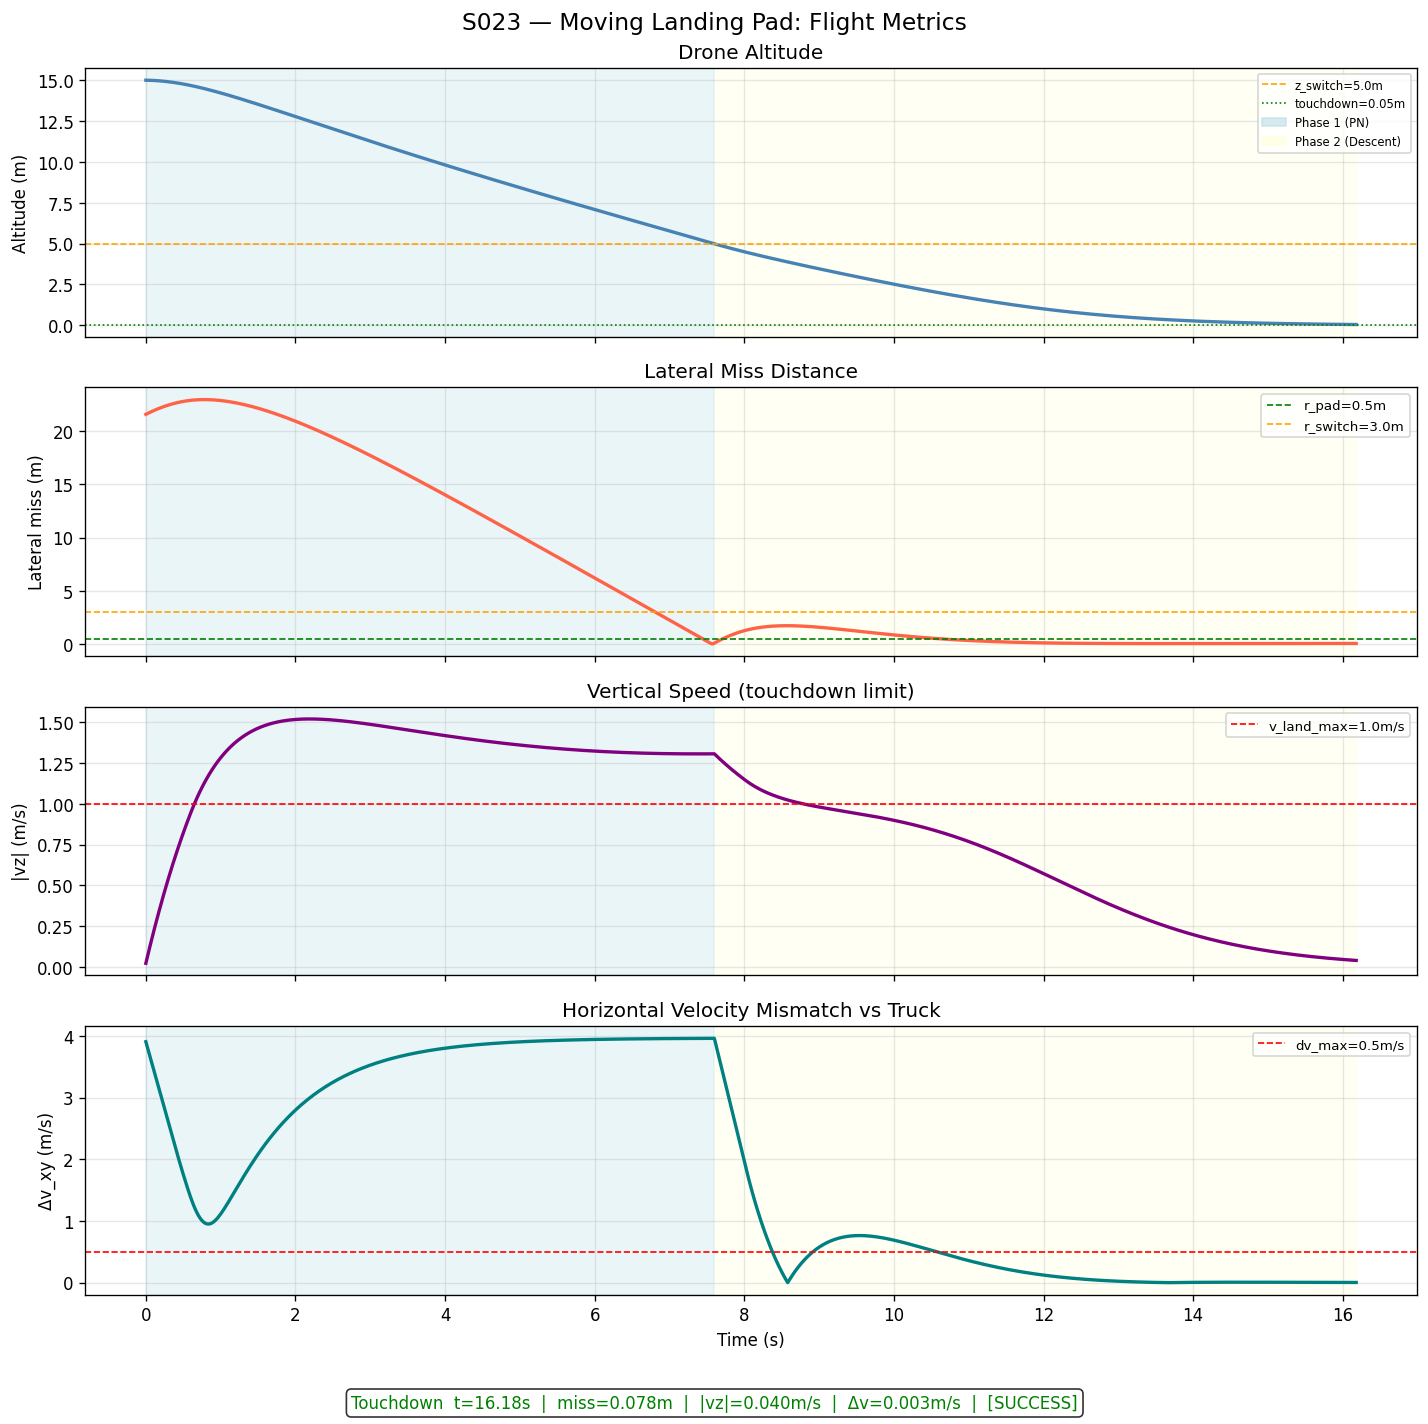
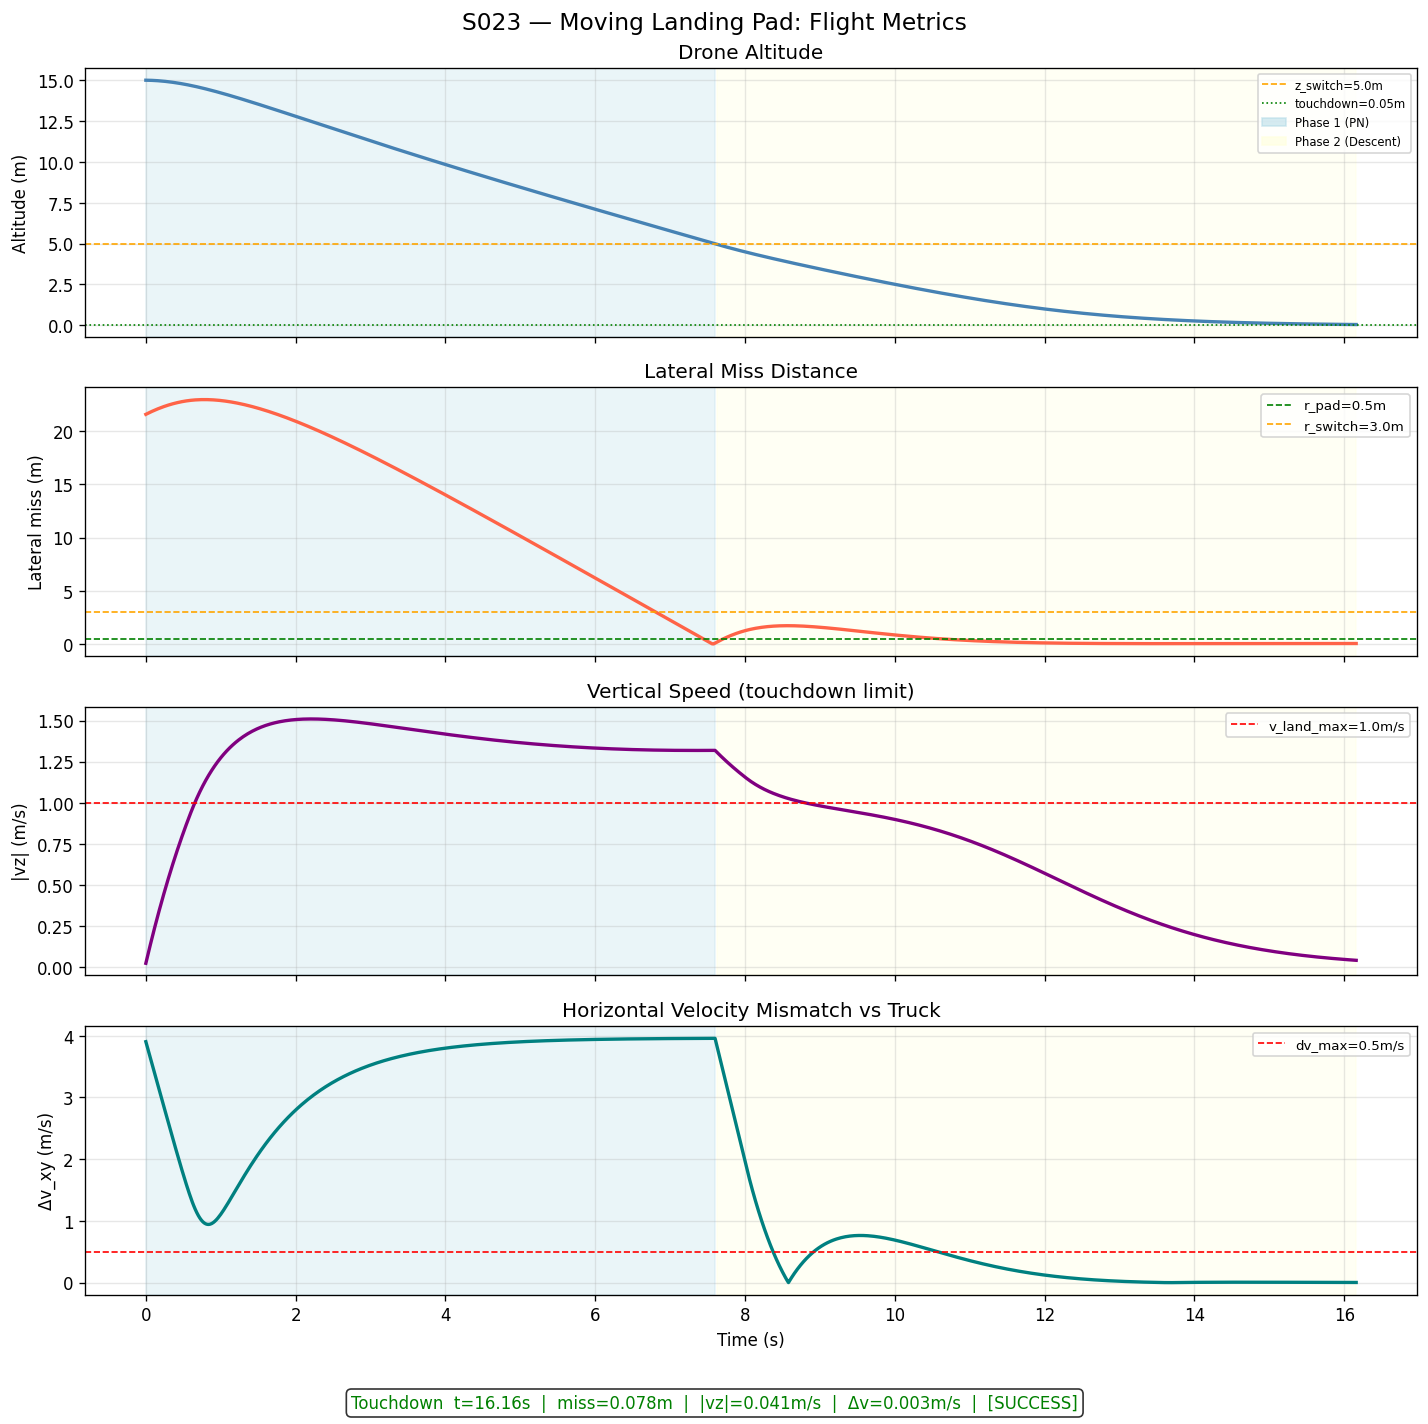
Fix S023 Moving Landing Pad: address review follow-ups
- C9/C10: intercept predictor now iterates to |d(dt_fly)| < 1e-6 s (21 iterations at t=0, aim x = 21.91 m vs 21.64 m with the card's 5 iterations); iterations printed, converged sanity check in README, listed as a card deviation
- C9: Phase-2 duration explanation corrected: script now prints the vertical channel alone (ideal tanh 10.97 s; rate loop from rest 9.24 s, on-profile entry 8.76 s, actual entry 8.58 s) - the saving comes from the 2nd-order rate-loop lag, entry speed explains only 0.18 s
- README numbers refreshed from this run (touchdown 16.16 s, miss 0.0777 m, |vz| 0.0408 m/s, dv 0.0032 m/s, SUCCESS)

diff --git a/src/02_logistics_delivery/s023_moving_landing_pad.py b/src/02_logistics_delivery/s023_moving_landing_pad.py
@@ -59,6 +59,11 @@ KP      = 1.2
 KV      = 1.8
 KZ_RATE = 2.0               # descent rate controller gain
 
+# Intercept predictor: iterate the fixed point to a tolerance (card: "3-5 iterations",
+# which is not enough here - see README "Deviations")
+PRED_TOL      = 1e-6        # s   — stop when |change of dt_fly| < PRED_TOL
+PRED_MAX_ITER = 100         # safety cap
+
 # Phase-1 along-LOS speed hold (not in the card; see README "Deviations")
 K_AX    = 1.0               # 1/s  — gain on (v_max - v_along_LOS)
 
@@ -68,24 +73,57 @@ X_TRUCK0 = 0.0                          # truck start x (m), road along x at y=z
 
 # ── Guidance functions ────────────────────────────────────────────────────────
 
-def predict_intercept(p_drone, p_truck, v_truck_vec, v_drone_max, n_iter=5):
+def predict_intercept(p_drone, p_truck, v_truck_vec, v_drone_max,
+                      tol=PRED_TOL, max_iter=PRED_MAX_ITER):
     """Iterative fixed-point intercept prediction.
 
     The aim point is the truck's future (x, y) at hand-over altitude Z_SWITCH:
         p* = p_T + v_T * dt_fly (horizontal),  z* = Z_SWITCH
-        dt_fly = ||p* - p_D|| / v_max      (iterated n_iter times)
+        dt_fly = ||p* - p_D|| / v_max
+    iterated until |dt_fly(k+1) - dt_fly(k)| < tol (contraction factor
+    <= v_T / v_max = 0.5, so convergence is linear).
+
+    Returns (aim_point, dt_fly, iterations_used).
     """
     p_truck_2d = p_truck[:2]
     v_truck_2d = v_truck_vec[:2]
     dz = p_drone[2] - Z_SWITCH
 
     dt_fly = np.linalg.norm(p_truck_2d - p_drone[:2]) / v_drone_max
-    for _ in range(n_iter):
+    n_used = 0
+    for n_used in range(1, max_iter + 1):
         p_int_2d = p_truck_2d + v_truck_2d * dt_fly
         dist_3d  = np.sqrt(np.linalg.norm(p_int_2d - p_drone[:2])**2 + dz**2)
-        dt_fly   = dist_3d / v_drone_max
+        dt_new   = dist_3d / v_drone_max
+        converged = abs(dt_new - dt_fly) < tol
+        dt_fly = dt_new
+        if converged:
+            break
 
-    return np.array([p_int_2d[0], p_int_2d[1], Z_SWITCH]), dt_fly
+    p_int_2d = p_truck_2d + v_truck_2d * dt_fly
+    return np.array([p_int_2d[0], p_int_2d[1], Z_SWITCH]), dt_fly, n_used
+
+
+def vertical_loop_time(z0, vz0, dt=DT):
+    """Phase-2 vertical channel alone: a_z = K*(zdot_cmd(z) - vz), |a_z| <= a_max.
+
+    Returns the time to reach Z_TOUCHDOWN from altitude z0 with initial vertical
+    velocity vz0 (negative = descending), using the same Euler step as the sim.
+    """
+    z, vz, t = z0, vz0, 0.0
+    while z > Z_TOUCHDOWN and t < SIM_TIME:
+        z_dot_cmd = -V_LAND_MAX * np.tanh(z / Z_FLARE)
+        a_z = np.clip(KZ_RATE * (z_dot_cmd - vz), -DRONE_AMAX, DRONE_AMAX)
+        vz += a_z * dt
+        z = max(z + vz * dt, 0.0)
+        t += dt
+    return t
+
+
+def ideal_tanh_time(z0):
+    """Ideal first-order profile zdot = -v_land*tanh(z/z_flare) from z0 to Z_TOUCHDOWN."""
+    return (Z_FLARE / V_LAND_MAX) * np.log(np.sinh(z0 / Z_FLARE) /
+                                           np.sinh(Z_TOUCHDOWN / Z_FLARE))
 
 
 def png_acceleration(p_drone, v_drone, p_target, los_prev, r_prev, N, a_max, dt):
@@ -157,6 +195,7 @@ def run_simulation():
         "dv_horiz":   [],
         "aim":        [],
         "a_pn":       [],
+        "pred_iter":  [],
     }
     landed = False
     touchdown_info = None
@@ -173,7 +212,9 @@ def run_simulation():
 
         # Control
         if phase == 1:
-            p_intercept, _ = predict_intercept(p_drone, p_truck, v_truck, DRONE_VMAX)
+            p_intercept, _, n_it = predict_intercept(p_drone, p_truck, v_truck,
+                                                     DRONE_VMAX)
+            history["pred_iter"].append(n_it)
             a_cmd, los_prev, r_prev, a_pn_mag = png_acceleration(
                 p_drone, v_drone, p_intercept, los_prev, r_prev,
                 N_PNG, DRONE_AMAX, DT)
@@ -484,7 +525,14 @@ def main():
     i2   = int(np.argmax(ph == 2)) if np.any(ph == 2) else None
     print(f"\nStart: drone {P_DRONE0.tolist()} m, truck x0={X_TRUCK0} m, "
           f"v_T={TRUCK_SPEED} m/s")
-    print(f"Initial predicted aim point : ({aim[0,0]:.2f}, {aim[0,1]:.2f}, {aim[0,2]:.2f}) m")
+    print(f"Initial predicted aim point : ({aim[0,0]:.2f}, {aim[0,1]:.2f}, {aim[0,2]:.2f}) m"
+          f"  ({history['pred_iter'][0]} iterations to |Δdt_fly| < {PRED_TOL:g} s)")
+    p5, _, _ = predict_intercept(P_DRONE0, np.array([X_TRUCK0, 0.0, 0.0]),
+                                 np.array([TRUCK_SPEED, 0.0, 0.0]), DRONE_VMAX,
+                                 tol=0.0, max_iter=5)
+    print(f"  (card rule, 5 iterations only, would give x = {p5[0]:.2f} m)")
+    print(f"Predictor iterations over Phase 1: max {max(history['pred_iter'])}, "
+          f"mean {np.mean(history['pred_iter']):.1f}")
     if i2 is not None:
         p_sw  = history["drone"][i2]
         print(f"Phase 1 -> 2 switch at t={t[i2]:.2f}s, drone at "
@@ -501,6 +549,17 @@ def main():
         print(f"  Phase 2: max lateral miss {lat2.max():.3f} m; Δv first <= {DV_MAX} m/s "
               f"after {t[i2 + j0] - t[i2]:.2f} s; max Δv after that {dv2[j0:].max():.3f} m/s")
         print(f"  Phase 2 duration          : {t[-1] - t[i2]:.2f} s")
+        z_sw, vz_sw = history["drone"][i2 - 1][2], -history["vz"][i2 - 1]
+        print(f"  Vertical channel alone from z={z_sw:.2f} m "
+              f"(2nd-order rate loop, K={KZ_RATE}):")
+        print(f"    entry vz={vz_sw:+.3f} m/s (actual)        : "
+              f"{vertical_loop_time(z_sw, vz_sw):.2f} s")
+        vz_ideal = -V_LAND_MAX * np.tanh(z_sw / Z_FLARE)
+        print(f"    entry vz={vz_ideal:+.3f} m/s (on tanh profile): "
+              f"{vertical_loop_time(z_sw, vz_ideal):.2f} s")
+        print(f"    entry vz=+0.000 m/s (from rest)      : "
+              f"{vertical_loop_time(z_sw, 0.0):.2f} s")
+        print(f"    ideal 1st-order tanh profile         : {ideal_tanh_time(z_sw):.2f} s")
     print(f"Number of phase changes     : {n_sw}")
     p1 = ph == 1
     print(f"PN steering |a_PN| in Phase 1: max {apn[p1].max():.3f} m/s², "

diff --git a/outputs/02_logistics_delivery/s023_moving_landing_pad/README.md b/outputs/02_logistics_delivery/s023_moving_landing_pad/README.md
@@ -16,7 +16,7 @@
 
 **Kinematics** (double integrator, gravity cancelled by thrust): $\dot{\mathbf{p}} = \mathbf{v}$, $\dot{\mathbf{v}} = \mathbf{a}_{cmd}$, $\|\mathbf{a}_{cmd}\| \le a_{max}$, $\|\mathbf{v}\| \le v_{max}$.
 
-**Intercept point prediction** (fixed-point iteration, 5 iterations each step):
+**Intercept point prediction** (fixed-point iteration each step, run until $|\Delta t_{fly}^{(k+1)} - \Delta t_{fly}^{(k)}| < 10^{-6}$ s, max 100 iterations):
 
 $$\mathbf{p}^*_{xy} = \mathbf{p}_{T,xy} + \mathbf{v}_{T,xy}\,\Delta t_{fly}, \qquad z^* = z_{switch}, \qquad \Delta t_{fly} = \frac{\|\mathbf{p}^* - \mathbf{p}_D\|}{v_{max}}$$
 
@@ -67,6 +67,7 @@ $$\|\mathbf{p}_{xy,D} - \mathbf{p}_{xy,T}\| \leq r_{pad}, \quad |\dot{z}| \leq v
 |------|------|------|--------|
 | Phase-1 acceleration | pure PN, $\mathbf{a} = N V_c \dot{\hat{\boldsymbol\lambda}}$ | PN **plus** an along-LOS speed-hold term $K_{ax}(v_{max} - \mathbf{v}\cdot\hat{\boldsymbol\lambda})$ using the acceleration budget PN leaves | PN only commands acceleration normal to the LOS; the drone starts at rest, so pure PN has no closing speed and never moves toward the target. The speed hold also makes the drone fly at $v_{max}$, which is what the intercept predictor assumes. |
 | Aim point altitude | predictor returns the truck's future position on the ground | aim point is placed at $z_{switch} = 5$ m above the predicted truck position | Phase 1 is meant to hand over at $z_{switch}$; aiming at the ground would dive at 8 m/s and could hit the ground before the Phase-2 lateral condition is met. |
+| Intercept predictor iterations | "converged after 3–5 fixed-point iterations" | iterate until the change in $\Delta t_{fly}$ is < 10⁻⁶ s (21 iterations at t = 0) | the map contracts by only ≈ 0.5 per iteration here, so 5 iterations leave a 0.27 m error in the initial aim point |
 | LOS rate | card maths: finite difference; card code: $\mathbf{v}_{\perp,rel}/r$ with $\mathbf{v}_T$ as target velocity | finite difference of $\hat{\boldsymbol\lambda}$ and of the range (card maths) | the target is the re-predicted intercept point, not the truck, so its motion is captured by differencing rather than by assuming it moves with $\mathbf{v}_T$ |
 
 The previous version of this script never called its PN function (Phase 1 was a pure-pursuit velocity tracker with an altitude hold) while the README and plot labels claimed PN; that has been replaced by the guidance above.
@@ -77,21 +78,33 @@ The previous version of this script never called its PN function (Phase 1 was a 
 
 | Metric | Value | Limit | Status |
 |--------|-------|-------|--------|
-| Initial predicted aim point | (21.34, 0.00, 5.00) m | — | — |
+| Initial predicted aim point | (21.91, 0.00, 5.00) m after 21 iterations (5 iterations would give x = 21.64 m) | — | — |
+| Predictor iterations over Phase 1 | max 21, mean 20.2 | 100 | — |
 | Phase 1 → 2 switch | t = 7.62 s at (30.67, -0.03, 4.96) m | — | — |
-| Lateral miss / Δv_horiz / \|vz\| at switch | 0.188 m / 3.860 m/s / 1.298 m/s | — | — |
+| Lateral miss / Δv_horiz / \|vz\| at switch | 0.191 m / 3.859 m/s / 1.310 m/s | — | — |
 | Number of phase changes | 1 (no chattering) | — | — |
-| Phase 2: max lateral miss / duration | 1.741 m / 8.56 s | — | — |
-| PN steering \|a_PN\| in Phase 1 | max 1.066 m/s², mean 0.154 m/s² | 5.0 m/s² | — |
-| Touchdown time | **16.18 s** | 30 s | ✅ |
-| Lateral miss | **0.0778 m** | 0.5 m | ✅ |
-| Vertical speed \|vz\| | **0.0405 m/s** | 1.0 m/s | ✅ |
-| Horizontal velocity mismatch | **0.0031 m/s** | 0.5 m/s | ✅ |
+| Phase 2: max lateral miss / duration | 1.744 m / 8.54 s | — | — |
+| PN steering \|a_PN\| in Phase 1 | max 1.078 m/s², mean 0.150 m/s² | 5.0 m/s² | — |
+| Touchdown time | **16.16 s** | 30 s | ✅ |
+| Lateral miss | **0.0777 m** | 0.5 m | ✅ |
+| Vertical speed \|vz\| | **0.0408 m/s** | 1.0 m/s | ✅ |
+| Horizontal velocity mismatch | **0.0032 m/s** | 0.5 m/s | ✅ |
 | Overall result | **SUCCESS** | — | — |
 
-**Phase 1.** The first prediction places the intercept point at x = 21.34 m (sanity check: distance from the start ≈ 43.3 m / 8 m/s ≈ 5.4 s, truck covers 4 × 5.4 ≈ 21.6 m). Because the drone starts from rest and only reaches $v_{max}$ gradually (the speed-hold gain is 1 s⁻¹), the actual hand-over happens later, at 7.62 s, and the predicted point drifts forward to x = 30.45 m — the truck is at 4 × 7.62 = 30.48 m then. PN absorbs this drift with small steering accelerations (max 1.07 m/s²), and the drone arrives 0.19 m from the truck at 4.96 m altitude. It arrives still flying at close to $v_{max}$, so the horizontal velocity mismatch at hand-over is 3.86 m/s.
+**Phase 1.** The converged first prediction places the intercept point at x = 21.91 m (check: distance from the start to (21.91, 0, 5) is $\sqrt{41.91^2 + 8^2 + 10^2} = 43.82$ m → 5.48 s at 8 m/s → truck at 4 × 5.48 = 21.91 m ✓). The fixed-point map contracts only by a factor of up to $v_T/v_{max} = 0.5$ per iteration, so it needs 21 iterations to reach the 10⁻⁶ s tolerance; the card's "3–5 iterations" would stop at x = 21.64 m (the previous version of the script, which also returned the point from the second-to-last iterate, used x = 21.34 m). Because the drone starts from rest and only reaches $v_{max}$ gradually (the speed-hold gain is 1 s⁻¹), the actual hand-over happens later, at 7.62 s, and the predicted point drifts forward to x = 30.44 m — the truck is at 4 × 7.62 = 30.48 m then. PN absorbs this drift with small steering accelerations (max 1.08 m/s²), and the drone arrives 0.19 m from the truck at 4.96 m altitude. It arrives still flying at close to $v_{max}$, so the horizontal velocity mismatch at hand-over is 3.86 m/s.
 
-**Phase 2.** The PD law brings the 3.86 m/s mismatch below the 0.5 m/s limit within 0.76 s; the drone overshoots ahead of the truck (lateral miss peaks at 1.741 m, Δv rebounds to 0.763 m/s) and then settles. The tanh flare brings the descent rate from 1.30 m/s at hand-over to 0.04 m/s at touchdown. Phase 2 takes 8.56 s (an ideal tanh profile from 5 m to 0.05 m would take $2\ln[\sinh(2.5)/\sinh(0.025)] \approx 11$ s; it is shorter here because the drone enters Phase 2 descending at 1.3 m/s). Touchdown at 16.18 s meets all three criteria with wide margins.
+**Phase 2.** The PD law brings the 3.86 m/s mismatch below the 0.5 m/s limit within 0.76 s; the drone overshoots ahead of the truck (lateral miss peaks at 1.744 m, Δv rebounds to 0.765 m/s) and then settles. The flare brings the descent rate from 1.31 m/s at hand-over to 0.04 m/s at touchdown. Phase 2 takes 8.54 s.
+
+Why Phase 2 is shorter than the ideal tanh profile — the script simulates the vertical channel alone from the hand-over altitude (z = 4.99 m):
+
+| Vertical channel | Time to touchdown |
+|------------------|-------------------|
+| Ideal first-order profile $\dot z = -v_{land}	anh(z/z_{flare})$ | 10.97 s |
+| Rate loop ($K_{\dot z} = 2$), entering from rest | 9.24 s |
+| Rate loop, entering on the tanh profile (−0.986 m/s) | 8.76 s |
+| Rate loop, entering at the actual −1.319 m/s | 8.58 s |
+
+The ≈ 2.4 s saving comes from the second-order rate loop: its descent rate lags behind the commanded profile, and near the ground (where the commanded rate shrinks towards zero and the ideal profile spends most of its time) that lag keeps the drone descending faster than commanded. The faster entry speed accounts for only 0.18 s of it (8.76 → 8.58 s). The vertical-only figure (8.58 s) matches the full run (8.54 s); the small difference comes from the joint acceleration limit shared with the lateral channel. Touchdown at 16.16 s meets all three criteria with wide margins.
 
 Compared with the previous (pure-pursuit) version, which touched down at 13.46 s and failed on Δv_horiz (0.53 m/s), the current run lands later but cleanly. The difference is not only due to PN vs pure pursuit: the old Phase 1 also held altitude and aimed differently, so the two runs are not a controlled comparison.
 
